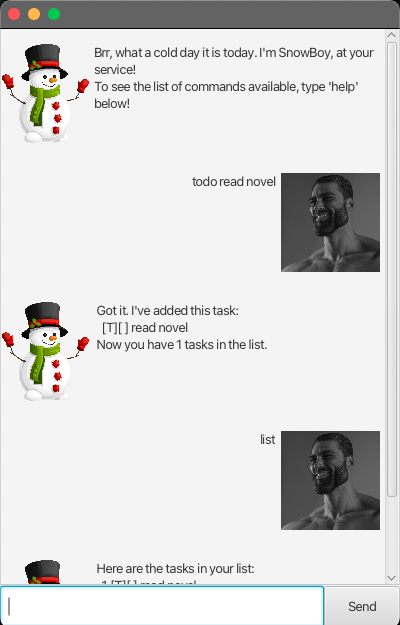
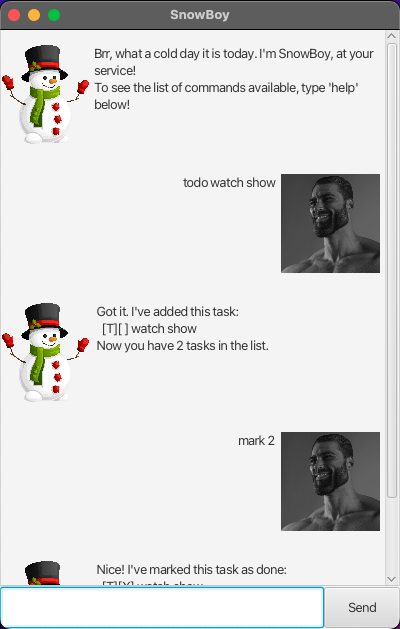
Fix ParserTest.java to correctly test exception when params are missing
Add window title to GUI

Update Ui.png to show updated GUI

diff --git a/src/main/java/duke/Parser.java b/src/main/java/duke/Parser.java
@@ -110,7 +110,7 @@ public class Parser {
         int startIdxOfDesc = cmd.indexOf(" ") + 1;
         String[] deadlineArr = cmd.substring(startIdxOfDesc).split(" /by ");
         if (deadlineArr.length == 1) {
-            throw new DukeException(" Sorry buddy, the date of a deadline cannot be empty :(\n%s");
+            throw new DukeException(" Sorry buddy, the date of a deadline cannot be empty :(");
         }
         LocalDate by;
         try {
@@ -132,7 +132,7 @@ public class Parser {
      */
     public static String addEvent(TaskList tl, String cmd, String ... commandArr) throws DukeException {
         if (commandArr.length == 1) {
-            throw new DukeException(" Sorry buddy, the description and start and end dates of an event cannot be empty :(");
+            throw new DukeException(" Sorry buddy, the description and start/end dates of an event cannot be empty :(");
         }
         int startIdxOfDesc = cmd.indexOf(" ") + 1;
         String[] eventFromArr = cmd.substring(startIdxOfDesc).split(" /from ");

diff --git a/src/test/java/duke/ParserTest.java b/src/test/java/duke/ParserTest.java
@@ -32,7 +32,7 @@ public class ParserTest {
         Exception exception = assertThrows(DukeException.class, () -> {
             Ui.checkCmd(list, command);
         });
-        String expectedMessage = " Sorry, the date of a deadline cannot be empty :(";
+        String expectedMessage = " Sorry buddy, the date of a deadline cannot be empty :(";
         String actualMessage = exception.getMessage();
         assertTrue(actualMessage.contains(expectedMessage));
     }

diff --git a/src/main/java/duke/Main.java b/src/main/java/duke/Main.java
@@ -32,6 +32,7 @@ public class Main extends Application {
             AnchorPane ap = fxmlLoader.load();
             Scene scene = new Scene(ap);
             stage.setScene(scene);
+            stage.setTitle("SnowBoy");
             fxmlLoader.<MainWindow>getController().setDuke(duke);
             stage.show();
         } catch (IOException e) {
